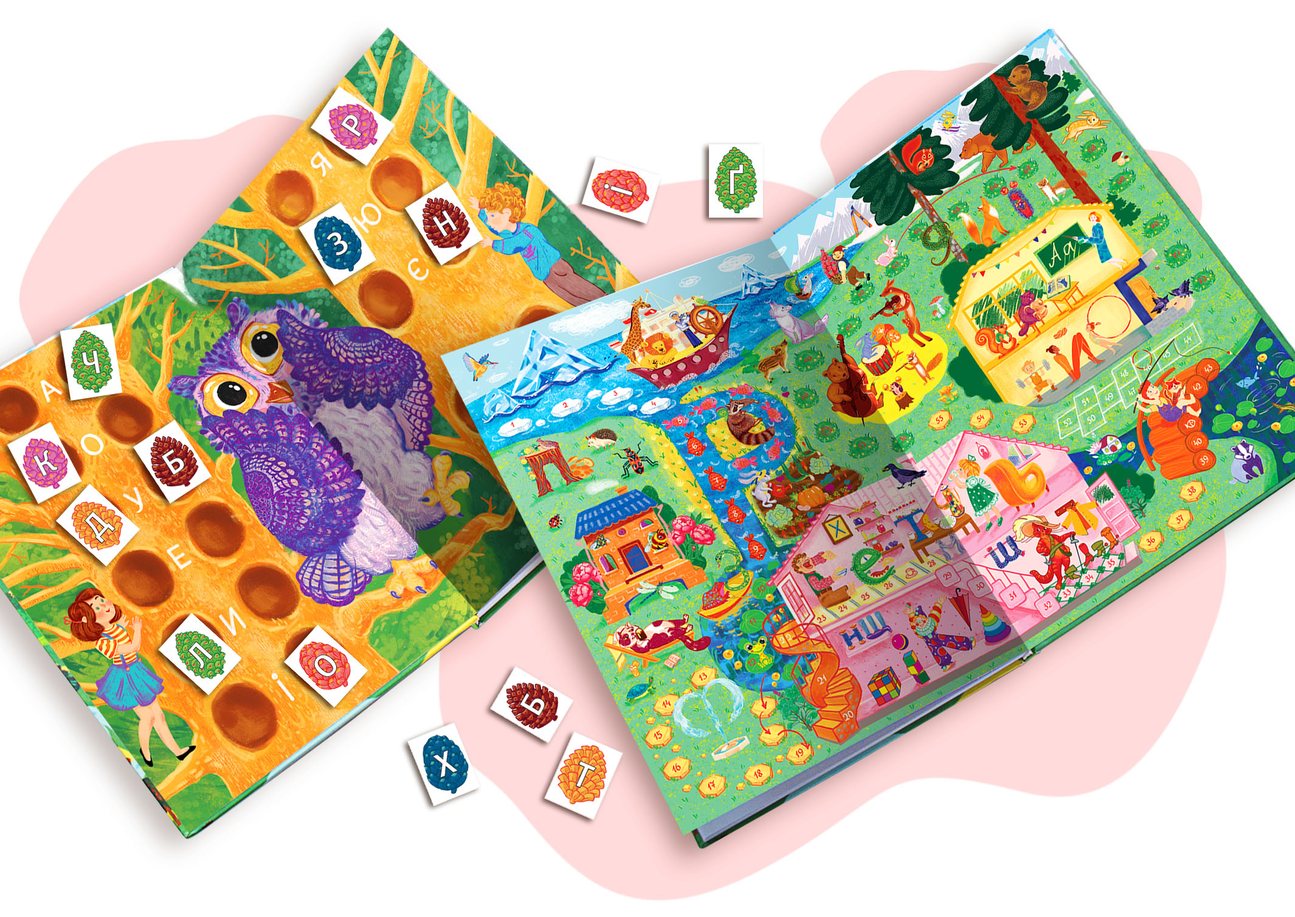
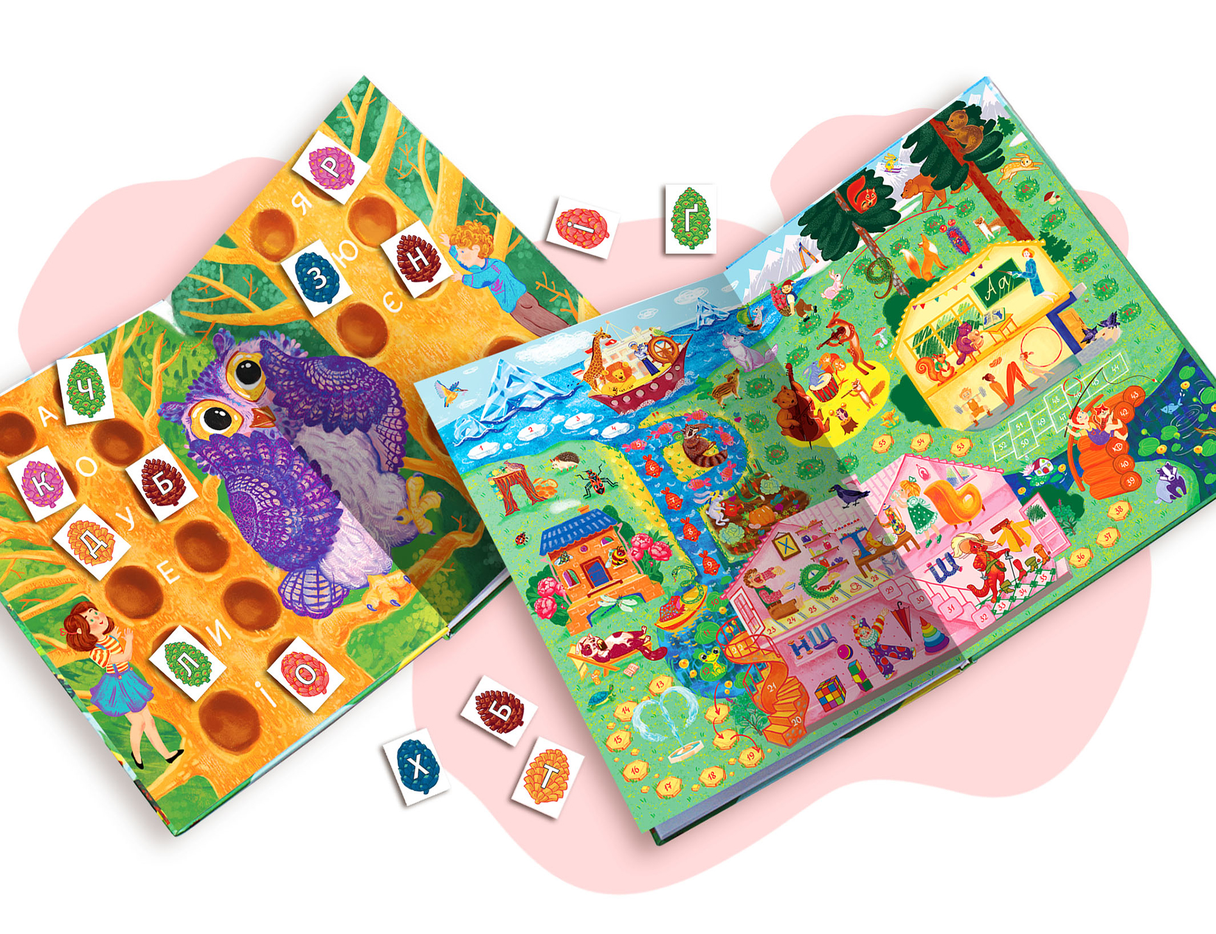
New images

diff --git a/wip4.html b/wip4.html
@@ -93,38 +93,46 @@
    
   <div class="w3-content w3-display-container product-carousel">
 
-      <div class="w3-display-container mySlides">
-        <img src="https://imagesvc.meredithcorp.io/v3/mm/image?q=85&c=sc&poi=face&w=2000&h=1000&url=https%3A%2F%2Fstatic.onecms.io%2Fwp-content%2Fuploads%2Fsites%2F20%2F2019%2F10%2Frabbit-3.jpg" style="width:100%">
-        <!-- <div class="w3-display-bottomleft w3-large w3-container w3-padding-16 w3-black">
-          French Alps
-        </div> -->
-      </div>
 
       <div class="w3-display-container mySlides">
-        <img src="https://www.warrenphotographic.co.uk/photography/bigs/40370-Three-cute-baby-Lop-rabbits-white-background.jpg" style="width:100%">
-        <!-- <div class="w3-display-bottomright w3-large w3-container w3-padding-16 w3-black">
-          Northern Lights
-        </div> -->
-      </div>
-
-      <div class="w3-display-container mySlides">
-        <img src="https://www.warrenphotographic.co.uk/photography/bigs/36294-Three-cute-baby-bunnies-white-background.jpg" style="width:100%">
+        <img src="IMG/ABC-Hardcover-book-mockup.png" style="width:100%">
         <!-- <div class="w3-display-topleft w3-large w3-container w3-padding-16 w3-black">
           Beautiful Mountains
         </div> -->
       </div>
 
       <div class="w3-display-container mySlides">
-        <img src="https://i.pinimg.com/originals/f5/34/e2/f534e2dc3ca879bf3e9e7c7c70e8f41e.jpg" style="width:100%">
+        <img src="IMG/U.png" style="width:100%">
+        <!-- <div class="w3-display-bottomright w3-large w3-container w3-padding-16 w3-black">
+          Northern Lights
+        </div> -->
+      </div>
+
+      <div class="w3-display-container mySlides">
+        <img src="IMG/U-I.png" style="width:100%">
        <!--  <div class="w3-display-topright w3-large w3-container w3-padding-16 w3-black">
           The Rain Forest
         </div> -->
       </div>
 
       <div class="w3-display-container mySlides">
-        <img src="https://www.warrenphotographic.co.uk/photography/bigs/36283-Three-baby-bunnies-white-background.jpg" style="width:100%">
+        <img src="IMG/Metodichka-U-Mockup.png" style="width:100%">
         <!-- <div class="w3-display-middle w3-large w3-container w3-padding-16 w3-black">
           Mountains!
+        </div> -->
+      </div>
+
+      <div class="w3-display-container mySlides">
+        <img src="IMG/Metodichka-U-I-Mockup-upper-down.png" style="width:100%">
+        <!-- <div class="w3-display-middle w3-large w3-container w3-padding-16 w3-black">
+          Mountains!
+        </div> -->
+      </div>
+
+      <div class="w3-display-container mySlides">
+        <img src="IMG/Forzac&Narzac-compos2.png" style="width:100%">
+        <!-- <div class="w3-display-bottomleft w3-large w3-container w3-padding-16 w3-black">
+          French Alps
         </div> -->
       </div>
 
@@ -155,7 +163,7 @@
 
    <!-- Абетка. Мовні ігри. Картки -->
 
-<div class="book-product">
+<div class="book-product"; style="background-color: linen; padding: 2vw 0vw;">
    
   <div class="w3-content w3-display-container product-carousel">
 
@@ -216,7 +224,7 @@
 
  <!-- Моя тактильна абетка. Чорно-білі картки -->
 
-<div class="book-product">
+<div class="book-product"; style="background-color: linen; padding: 2vw 0vw;">
    
   <div class="w3-content w3-display-container product-carousel">
 
@@ -276,42 +284,21 @@
 
  <!-- Плакат -->
 
-<div class="book-product">
+<div class="book-product"; style="background-color: linen; padding: 2vw 0vw;">
    
   <div class="w3-content w3-display-container product-carousel">
 
       <div class="w3-display-container mySlides">
-        <img src="https://imagesvc.meredithcorp.io/v3/mm/image?q=85&c=sc&poi=face&w=2000&h=1000&url=https%3A%2F%2Fstatic.onecms.io%2Fwp-content%2Fuploads%2Fsites%2F20%2F2019%2F10%2Frabbit-3.jpg" style="width:100%">
+        <img src="IMG/ABC-Plakat-Mock-up.png" style="width:100%">
         <!-- <div class="w3-display-bottomleft w3-large w3-container w3-padding-16 w3-black">
           French Alps
         </div> -->
       </div>
 
       <div class="w3-display-container mySlides">
-        <img src="https://www.warrenphotographic.co.uk/photography/bigs/40370-Three-cute-baby-Lop-rabbits-white-background.jpg" style="width:100%">
+        <img src="IMG/ABC-Plakat-Fragment.png" style="width:100%">
         <!-- <div class="w3-display-bottomright w3-large w3-container w3-padding-16 w3-black">
           Northern Lights
-        </div> -->
-      </div>
-
-      <div class="w3-display-container mySlides">
-        <img src="https://www.warrenphotographic.co.uk/photography/bigs/36294-Three-cute-baby-bunnies-white-background.jpg" style="width:100%">
-        <!-- <div class="w3-display-topleft w3-large w3-container w3-padding-16 w3-black">
-          Beautiful Mountains
-        </div> -->
-      </div>
-
-      <div class="w3-display-container mySlides">
-        <img src="https://i.pinimg.com/originals/f5/34/e2/f534e2dc3ca879bf3e9e7c7c70e8f41e.jpg" style="width:100%">
-       <!--  <div class="w3-display-topright w3-large w3-container w3-padding-16 w3-black">
-          The Rain Forest
-        </div> -->
-      </div>
-
-      <div class="w3-display-container mySlides">
-        <img src="https://www.warrenphotographic.co.uk/photography/bigs/36283-Three-baby-bunnies-white-background.jpg" style="width:100%">
-        <!-- <div class="w3-display-middle w3-large w3-container w3-padding-16 w3-black">
-          Mountains!
         </div> -->
       </div>
 

diff --git a/w3.css b/w3.css
@@ -80,7 +80,7 @@ hr{border:0;border-top:1px solid #eee;margin:20px 0}
 .w3-col.l5{width:41.66666%}.w3-col.l6{width:49.99999%}.w3-col.l7{width:58.33333%}.w3-col.l8{width:66.66666%}
 .w3-col.l9{width:74.99999%}.w3-col.l10{width:83.33333%}.w3-col.l11{width:91.66666%}.w3-col.l12{width:99.99999%}}
 .w3-rest{overflow:hidden}.w3-stretch{margin-left:-16px;margin-right:-16px}
-.w3-content,.w3-auto{margin-left:5vw;margin-right:auto}.w3-content{max-width:980px;min-width: 450px;}.w3-auto{max-width:1140px}
+.w3-content,.w3-auto{margin-left:3vw;margin-right:auto}.w3-content{max-width:980px;min-width: 450px;}.w3-auto{max-width:1140px}
 @media screen and (max-width: 900px) {.w3-content,.w3-auto{margin-left:auto;margin-right:auto}}
 .w3-cell-row{display:table;width:100%}.w3-cell{display:table-cell}
 .w3-cell-top{vertical-align:top}.w3-cell-middle{vertical-align:middle}.w3-cell-bottom{vertical-align:bottom}

diff --git a/wip4.css b/wip4.css
@@ -305,7 +305,7 @@ p, ul {
 	text-align: left;
 	max-width: 50vw;
 	/*flex-basis: 1;*/
-	/*min-width: 30em;*/
+	min-width: 50vw;
 }
 
 .book-product-image {
